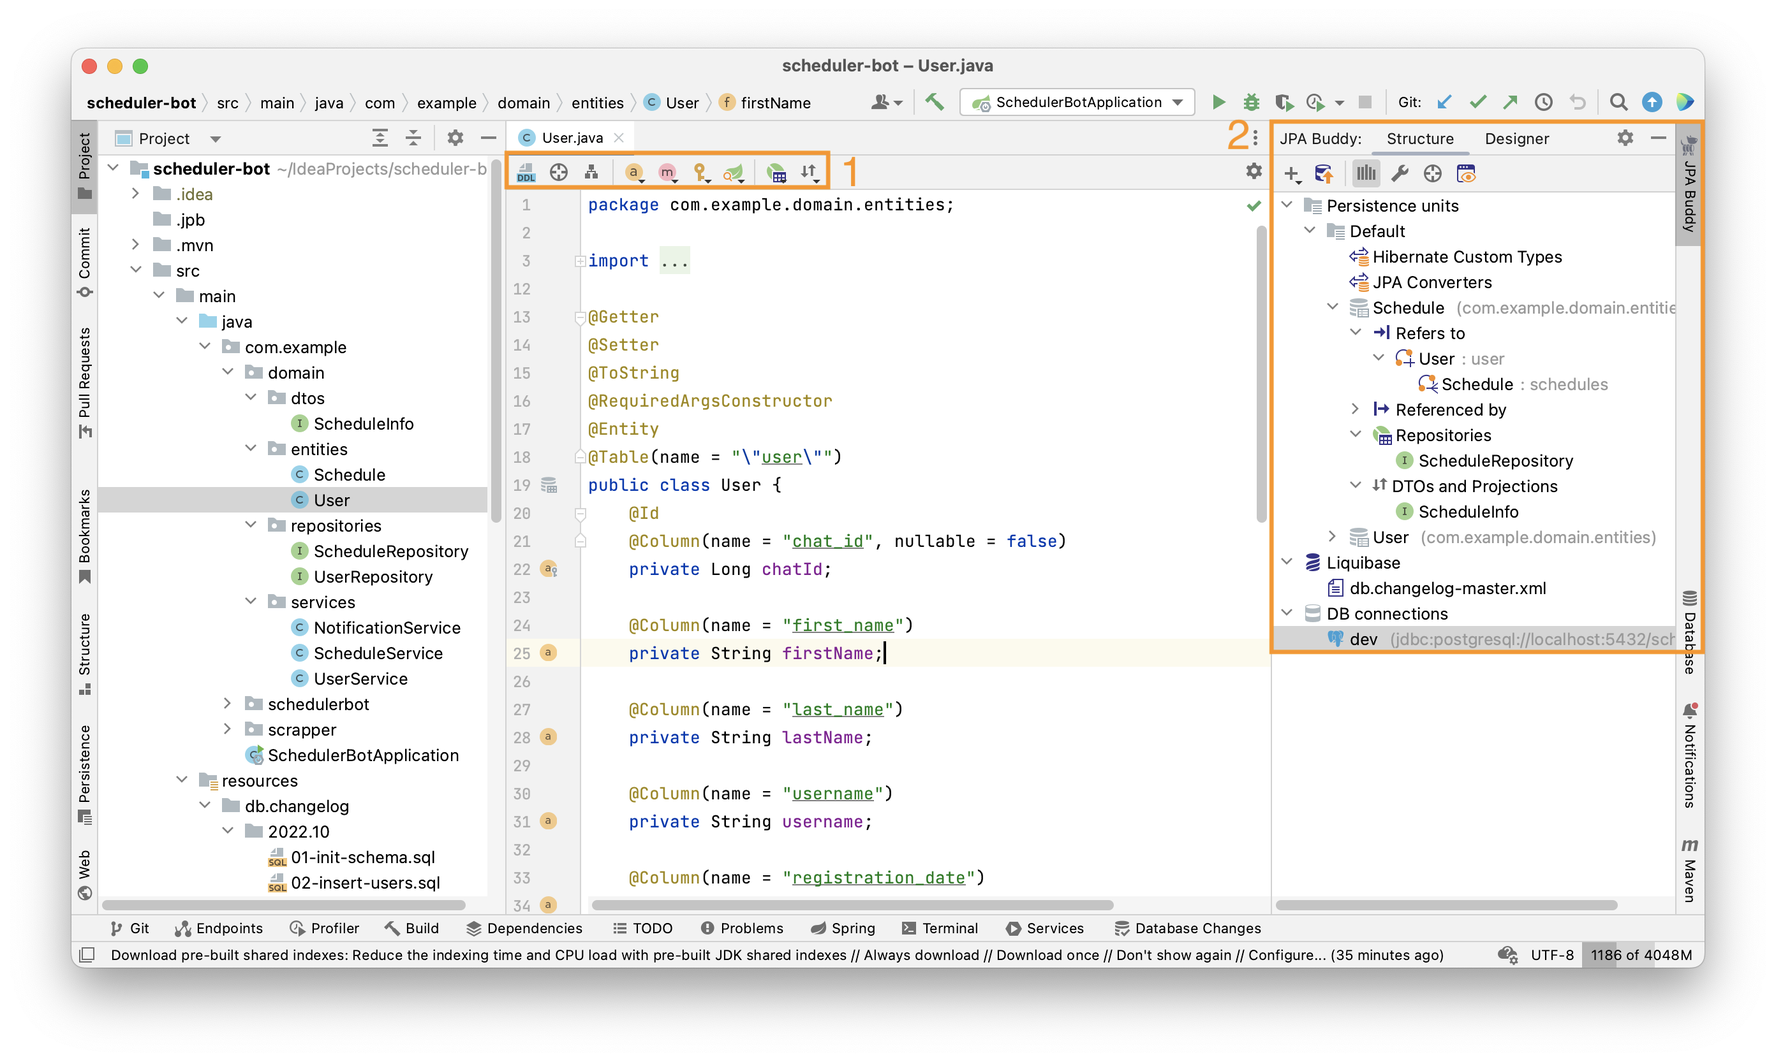
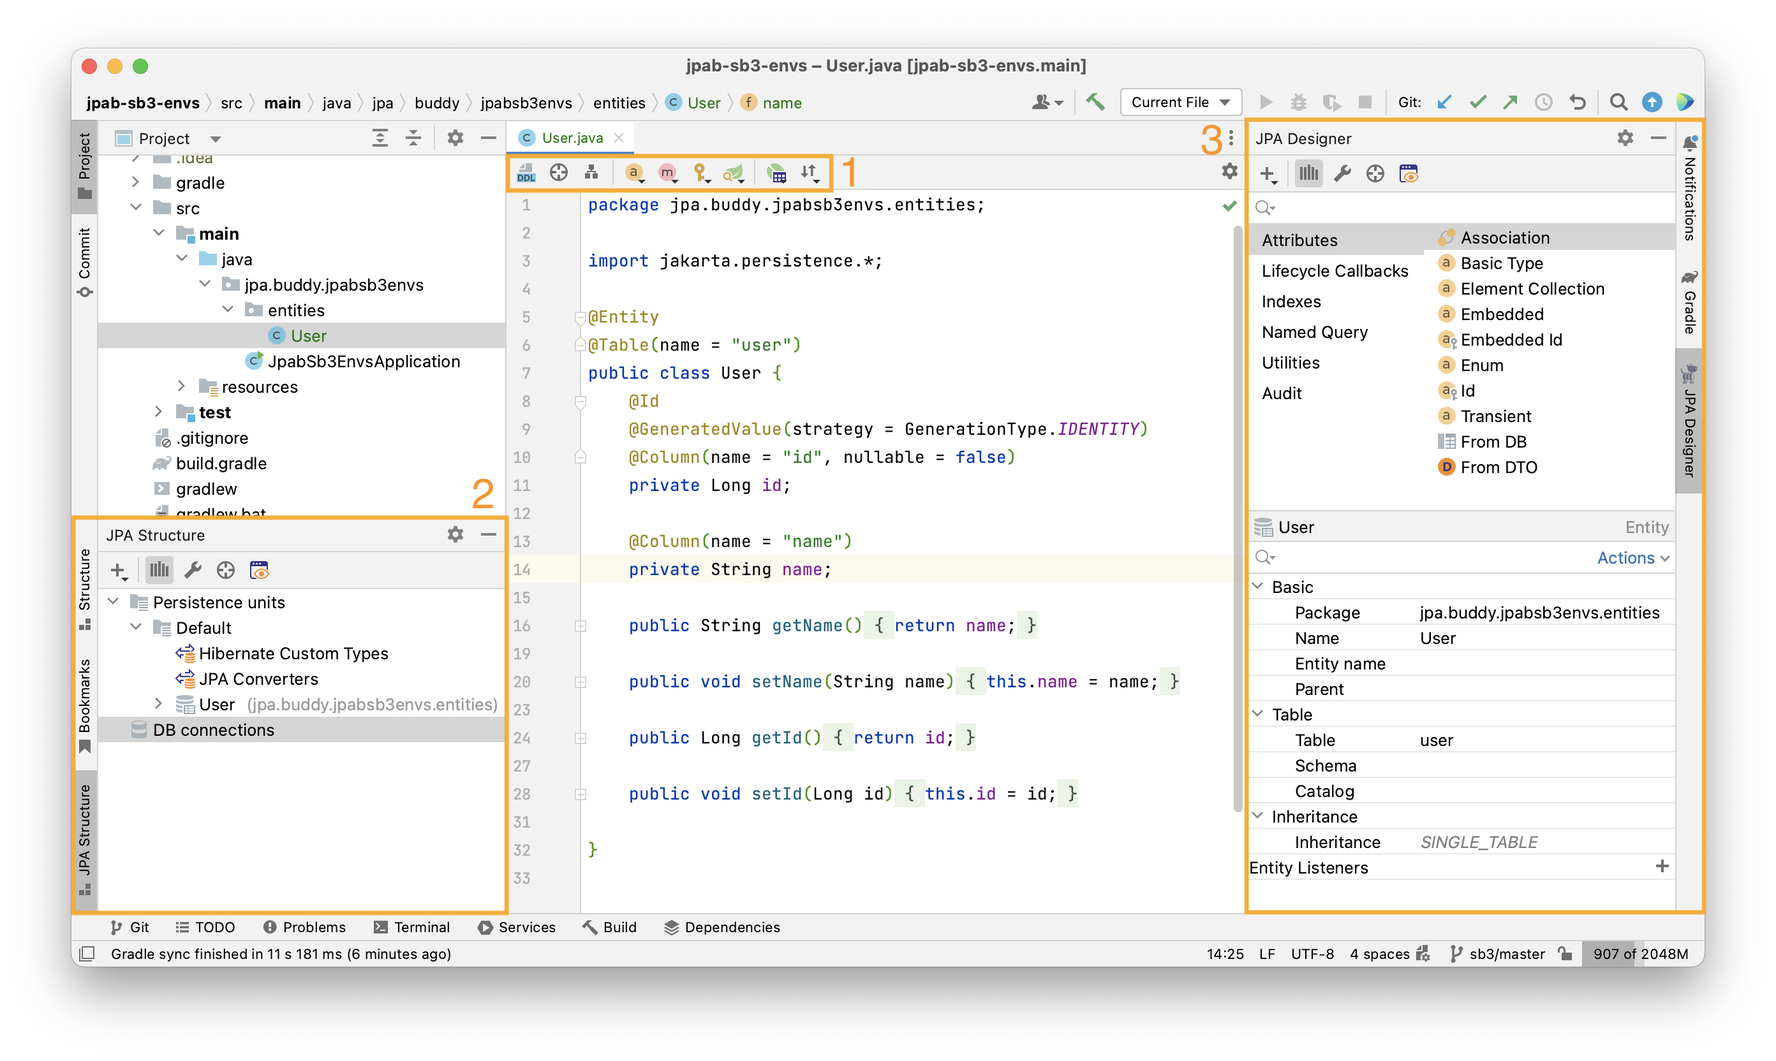
Make tool windows separated again #117

diff --git a/entity-designer/entity-designer.md b/entity-designer/entity-designer.md
@@ -1,18 +1,102 @@
 ## Introduction
 
-Once you [install JPA Buddy](https://www.jpa-buddy.com/documentation/), you will find additional tool window (2) and a toolbar (1).
+Once you [install JPA Buddy](https://www.jpa-buddy.com/documentation/), you will find editor toolbar (1) and additional tool windows (2,3).
 
 ![first-sight](img/first-sight.png)
 
-### JPA Buddy Tool Window
+## JPA Buddy Tool Windows
 
-JPA Buddy tool window consist of two tabs: [JPA Structure](#jpa-structure) (1) and [JPA Designer](#jpa-designer) (2). JPA Designer, in its turn, splits into two more parts called: [JPA Palette](#jpa-palette) (3) and [JPA Inspector](#jpa-inspector) (4).
+JPA Buddy provides 3 additional tool windows:
 
-![jpa-buddy-tool-window](img/jpa-buddy-tool-window.png)
+* [JPA Structure](#jpa-structure) (1) 
+* [JPA Palette](#jpa-palette) (2)
+* [JPA Inspector](#jpa-inspector) (3)
+
+![jpa-buddy-tool-windows](img/jpa-buddy-tool-window.png)
+
+Depending on the settings specified in the [designer settings](#designer-settings), these panels can be displayed differently: together, separately, embedded in the standard IntelliJ IDEA panels, or hidden altogether.
+
+### JPA Structure
+
+JPA Structure tab provides a comprehensive data-centric view on the project. You can use it for many purposes:
+
+1. Traverse through the data model. The entity structure is represented hierarchically. You can easily observe and navigate to entities referencing the current one and ones the current entity refers to. This is an extremely useful feature, especially for those who are just diving into an existing project with a large entity graph or for code reviewers, who often see parts of the data model for the first time and have limited time to understand how it is designed.
+2. Create data-related objects: entities, JPA converters / Hibernate types, Spring Data repositories and Liquibase changelog.
+3. Observe related Spring Data repositories, DTOs and projections for each entity.
+4. Specify plugin-related settings such as DB connection, persistence units and others, which the plugin was not able to detect automatically.
+
+![jpa-structure](img/jpa-structure.png)
+
+If you don't see the JPA Structure check [visual designer settings](#designer-settings).
+
+### JPA Palette
+
+![jpa-palette](img/jpa-palette.png)
+
+The idea of the JPA Palette is to generate attributes, indexes, queries, etc.
+
+JPA Palette provides a corresponding generation window for everything listed below. There is a slight difference between them according to the context, but they all have a similar design:
+
+- <a href="https://www.youtube.com/embed/8A_ftrU_yYE">Attributes</a>
+- <a href="https://www.youtube.com/embed/d77p30UXBzc">Lifecycle Callbacks</a>
+- <a href="https://www.youtube.com/embed/9YVtxVeN9Yk">Indexes</a>
+- <a href="https://www.youtube.com/embed/iV6jTbzjgkE">Named Query</a>
+- <a href="https://youtu.be/az9ghvGczys">Reverse Engineering</a>
+- <a href="https://youtu.be/jTdMIOfyx2Q">Utilities – Equals/HashCode/ToString</a>
+
+If you don't see the JPA Palette check [visual designer settings](#designer-settings).
+
+#### Associations Performance Tips
+
+Hibernate comes with many relationships mapping types, but not all of them are equal in terms of efficiency.
+
+During associations creation, JPA Buddy provides short explanation in “Learn more” button, why the current configuration is not efficient and may cause performance issues:
+
+![learn-more](img/learn-more.jpeg)
+
+Also, there is a drop-down list with possible optimizations that you can apply in one click:
+
+![suggested-optimizations](img/suggested-optimizations.jpeg)
+
+<div class="youtube">
+<iframe width="560" height="315" src="https://www.youtube.com/embed/QLQi02WzItw" title="YouTube video player" allow="accelerometer; autoplay; clipboard-write; encrypted-media; gyroscope; picture-in-picture" allowfullscreen></iframe>
+</div>
+
+### JPA Inspector
+
+![jpa-inspector](img/jpa-inspector.png)
+
+JPA Inspector is designed to edit existing attributes, indexes, queries, etc.
+
+JPA Inspector allows you to configure JPA entities and attributes in it. Click on any element that you need to configure, and change the required properties:
+
+<div class="youtube">
+<iframe width="560" height="315" src="https://www.youtube.com/embed/SwnxWJMVin0" title="YouTube video player" allow="accelerometer; autoplay; clipboard-write; encrypted-media; gyroscope; picture-in-picture" allowfullscreen></iframe>
+</div>
+
+If you don't see the JPA Inspector check [visual designer settings](#designer-settings).
+
+#### Hibernate Validations
+
+For projects with Hibernate Validations, a section appears with validations that you can apply for the selected attribute:
+
+<div class="youtube">
+<iframe width="560" height="315" src="https://www.youtube.com/embed/yIOcQ_bGxBc" title="YouTube video player" allow="accelerometer; autoplay; clipboard-write; encrypted-media; gyroscope; picture-in-picture" allowfullscreen></iframe>
+</div>
+
+### Editor Toolbar
+
+Editor Toolbar contains relevant action depending on the file content. You can find it on top of the editor window.
+
+<div class="youtube">
+<iframe width="560" height="315" src="https://www.youtube.com/embed/psZWTxq73ws" title="YouTube video player" allow="accelerometer; autoplay; clipboard-write; encrypted-media; gyroscope; picture-in-picture" allowfullscreen></iframe>
+</div>
+
+If you don't see the Editor Toolbar check [visual designer settings](#designer-settings).
 
 ## Entity Generation
 
-To create a new JPA entity, right-click on the desired folder and select New -> JPA Entity (1). Also, you can create a new entity from JPA Buddy tool window (2):
+To create a new JPA entity, right-click on the desired folder and select New -> JPA Entity (1). Also, you can create a new entity from JPA Structure (2):
 
 ![jpa-structure-create-new-entity](img/jpa-structure-create-new-entity.png)
 
@@ -22,7 +106,7 @@ After that, the following window will appear:
 
 ### Languages Support
 
-JPA Buddy supports both [Java](https://www.java.com/) and [Kotlin](https://kotlinlang.org/). When JPA Buddy detects the [Kotlin dependency](https://kotlinlang.org/docs/maven.html) in your project, an additional option appears in the “New Entity” window, letting you pick the language:
+JPA Buddy supports both <a href="https://www.java.com/">Java</a> and <a href="https://kotlinlang.org/">Kotlin</a>. When JPA Buddy detects the <a href="https://kotlinlang.org/docs/maven.html">Kotlin dependency</a> in your project, an additional option appears in the “New Entity” window, letting you pick the language:
 
 ![new-entity-language-choose](img/new-entity-language-choose.jpeg)
 
@@ -52,142 +136,51 @@ See the example of the generated ID below:
 
 ```java
 @Id
-@GeneratedValue(strategy=GenerationType.SEQUENCE,generator = "owners_seq")
-@SequenceGenerator(name = "owners_seq",sequenceName = "SEQ_OWNER", initialValue = 5, allocationSize = 10)
+@GeneratedValue(
+    strategy=GenerationType.SEQUENCE,
+    generator = "owners_seq"
+)
+@SequenceGenerator(
+    name = "owners_seq",
+    sequenceName = "SEQ_OWNER",
+    initialValue = 5,
+    allocationSize = 10
+)
 @Column(name = "id", nullable = false)
 private Long id;
 ```
-
-## JPA Structure
-
-JPA Structure tab provides a comprehensive data-centric view on the project. You can use it for many purposes:
-
-1. Traverse through the data model. The entity structure is represented hierarchically. You can easily observe and navigate to entities referencing the current one and ones the current entity refers to. This is an extremely useful feature, especially for those who are just diving into an existing project with a large entity graph or for code reviewers, who often see parts of the data model for the first time and have limited time to understand how it is designed.
-2. Create data-related objects: entities, JPA converters / Hibernate types, Spring Data repositories and Liquibase changelog.
-3. Observe related Spring Data repositories, DTOs and projections for each entity.
-4. Specify plugin-related settings such as DB connection, persistence units and others, which the plugin was not able to detect automatically.
-
-![jpa-structure](img/jpa-structure.png)
-
-## JPA Designer
-
-Once the JPA entity is created, Designer tab appears in the JPA Buddy tool window. The content of this tab is context-depended. Designer tab splits into two parts called: JPA Palette (1) and JPA Inspector (2). The idea of the JPA Palette is to generate attributes, indexes, queries, etc. Meanwhile, JPA Inspector is designed to edit existing attributes, indexes, queries, etc.
-
-![jpa-designer](img/jpa-designer.png)
-
-### JPA Palette
-
-JPA Palette provides a corresponding generation window for everything listed below. There is a difference between them according to the context, but they all have a similar design.
-
-- Attributes
-
-<div class="youtube" align="center">
-<iframe width="560" height="315" src="https://www.youtube.com/embed/8A_ftrU_yYE" title="YouTube video player" frameborder="0" allow="accelerometer; autoplay; clipboard-write; encrypted-media; gyroscope; picture-in-picture" allowfullscreen></iframe>
-</div>
-
-- Lifecycle Callbacks
-
-<div class="youtube" align="center">
-<iframe width="560" height="315" src="https://www.youtube.com/embed/d77p30UXBzc" title="YouTube video player" frameborder="0" allow="accelerometer; autoplay; clipboard-write; encrypted-media; gyroscope; picture-in-picture" allowfullscreen></iframe>
-</div>
-
-- Indexes
-
-<div class="youtube" align="center">
-<iframe width="560" height="315" src="https://www.youtube.com/embed/9YVtxVeN9Yk" title="YouTube video player" frameborder="0" allow="accelerometer; autoplay; clipboard-write; encrypted-media; gyroscope; picture-in-picture" allowfullscreen></iframe>
-</div>
-
-- Named Query
-
-<div class="youtube" align="center">
-<iframe width="560" height="315" src="https://www.youtube.com/embed/iV6jTbzjgkE" title="YouTube video player" frameborder="0" allow="accelerometer; autoplay; clipboard-write; encrypted-media; gyroscope; picture-in-picture" allowfullscreen></iframe>
-</div>
-
-- Reverse Engineering
-
-<div class="youtube" align="center">
-<iframe width="560" height="315" src="https://www.youtube.com/embed/az9ghvGczys" title="YouTube video player" frameborder="0" allow="accelerometer; autoplay; clipboard-write; encrypted-media; gyroscope; picture-in-picture" allowfullscreen></iframe>
-</div>
-
-As you can see in the video, via JPA Palette, you can only generate attributes for the entity. But JPA Buddy provides more features for this. You can learn more in [Reverse Engineering](https://www.jpa-buddy.com/documentation/reverse-engineering/) documentation.
-
-- Utilities (Equals/HashCode/ToString) - JPA Buddy follows best practices for Equals/HashCode/ToString generated implementations. Learn more about this topic in articles by [Thorben Janssen](https://thorben-janssen.com/ultimate-guide-to-implementing-equals-and-hashcode-with-hibernate/).
-
-<div class="youtube" align="center"> 
-<iframe width="560" height="315" src="https://www.youtube.com/embed/jTdMIOfyx2Q" title="YouTube video player" frameborder="0" allow="accelerometer; autoplay; clipboard-write; encrypted-media; gyroscope; picture-in-picture" allowfullscreen></iframe>
-</div>
-
-#### Associations Performance Tips
-
-Hibernate comes with many relationships mapping types, but not all of them are equal in terms of efficiency.
-
-During associations creation, JPA Buddy provides short explanation in “Learn more” button, why the current configuration is not efficient and may cause performance issues:
-
-![learn-more](img/learn-more.jpeg)
-
-Also, there is a drop-down list with possible optimizations that you can apply in one click:
-
-![suggested-optimizations](img/suggested-optimizations.jpeg)
-
-<div class="youtube" align="center">
-<iframe width="560" height="315" src="https://www.youtube.com/embed/QLQi02WzItw" title="YouTube video player" frameborder="0" allow="accelerometer; autoplay; clipboard-write; encrypted-media; gyroscope; picture-in-picture" allowfullscreen></iframe>
-</div>
-
-### JPA Inspector
-
-JPA Inspector allows you to configure JPA entities and attributes in it. Click on any element that you need to configure, and change the required properties:
-
-<div class="youtube" align="center">
-<iframe width="560" height="315" src="https://www.youtube.com/embed/SwnxWJMVin0" title="YouTube video player" frameborder="0" allow="accelerometer; autoplay; clipboard-write; encrypted-media; gyroscope; picture-in-picture" allowfullscreen></iframe>
-</div>
-
-### Editor Toolbar
-
-Editor Toolbar contains relevant action depending on the file content. You can find it on top of the editor window. If you don't have the toolbar check [visual designer settings](https://www.jpa-buddy.com/documentation/entity-designer/#designer-settings).
-
-<div class="youtube" align="center">
-<iframe width="560" height="315" src="https://www.youtube.com/embed/psZWTxq73ws" title="YouTube video player" frameborder="0" allow="accelerometer; autoplay; clipboard-write; encrypted-media; gyroscope; picture-in-picture" allowfullscreen></iframe>
-</div>
-
-### Hibernate Validations
-
-For projects with Hibernate Validations, a section appears with validations that you can apply for the selected attribute:
-
-<div class="youtube" align="center">
-<iframe width="560" height="315" src="https://www.youtube.com/embed/yIOcQ_bGxBc" title="YouTube video player" frameborder="0" allow="accelerometer; autoplay; clipboard-write; encrypted-media; gyroscope; picture-in-picture" allowfullscreen></iframe>
-</div>
 
 ## Extract to MappedSuperclass
 
 The application is growing and the JPA model is evolving as well. Eventually, it became obvious that common attributes should be extracted to `@MappedSuperclass`. JPA Buddy allows you to extract attributes along with JPA annotations to MappedSuperclass and build a well-designed entities' hierarchy.
 
-<div class="youtube" align="center">
-<iframe width="560" height="315" src="https://www.youtube.com/embed/BAmwdEbj8LQ" title="YouTube video player" frameborder="0" allow="accelerometer; autoplay; clipboard-write; encrypted-media; gyroscope; picture-in-picture" allowfullscreen></iframe>
+<div class="youtube">
+<iframe width="560" height="315" src="https://www.youtube.com/embed/BAmwdEbj8LQ" title="YouTube video player" allow="accelerometer; autoplay; clipboard-write; encrypted-media; gyroscope; picture-in-picture" allowfullscreen></iframe>
 </div>
 
 ## Lombok
 
 ### Inspections
 
-[Lombok](https://projectlombok.org/) is a great tool that makes your Java code concise and clean. But there are a few things to consider when using Lombok with JPA, and to follow them easily, JPA Buddy provides corresponding inspections:
+<a href="https://projectlombok.org/">Lombok</a> is a great tool that makes your Java code concise and clean. But there are a few things to consider when using Lombok with JPA, and to follow them easily, JPA Buddy provides corresponding inspections:
 
 - Avoid using `@`EqualsAndHashCode and `@`Data with JPA entities. Entities are immutable by their nature, so implementing equals() and hashCode() for them is not a trivial task. The implementations provided by Lombok are not well suited for JPA entities and may cause issues with collections and accidental loading of lazy attributes.
 
-<div class="youtube" align="center">
-<iframe width="560" height="315" src="https://www.youtube.com/embed/E6qZXvz-Fs0" title="YouTube video player" frameborder="0" allow="accelerometer; autoplay; clipboard-write; encrypted-media; gyroscope; picture-in-picture" allowfullscreen></iframe>
+<div class="youtube">
+<iframe width="560" height="315" src="https://www.youtube.com/embed/E6qZXvz-Fs0" title="YouTube video player" allow="accelerometer; autoplay; clipboard-write; encrypted-media; gyroscope; picture-in-picture" allowfullscreen></iframe>
 </div>
 
 - Always exclude lazy attributes when using `@`ToString - by default, `@`ToString includes all the object fields. Such an approach can have an unwanted side effect for JPA entities: accidentally loading lazy attributes. This can easily harm the application performance or lead to a LazyInitializationException if it happens outside a transaction.
 
-<div class="youtube" align="center">
-<iframe width="560" height="315" src="https://www.youtube.com/embed/fUtRJBKskig" title="YouTube video player" frameborder="0" allow="accelerometer; autoplay; clipboard-write; encrypted-media; gyroscope; picture-in-picture" allowfullscreen></iframe>
+<div class="youtube">
+<iframe width="560" height="315" src="https://www.youtube.com/embed/fUtRJBKskig" title="YouTube video player" allow="accelerometer; autoplay; clipboard-write; encrypted-media; gyroscope; picture-in-picture" allowfullscreen></iframe>
 </div>
 
 - Don’t forget to add `@`NoArgsConstructor to entities with `@`Builder or `@`AllArgsConstructor – they introduce their own constructors, so the compiler doesn't generate a default one. A no-argument constructor is required for all JPA entities according to the specification.
 
 ![no-args-constructor](img/no-args-constructor.jpeg)
 
-Check out our [article](https://www.jpa-buddy.com/blog/lombok-and-jpa-what-may-go-wrong/) to learn more about why it is so important to follow the rules above.
+Check out our <a href="https://www.jpa-buddy.com/blog/lombok-and-jpa-what-may-go-wrong/">article</a> to learn more about why it is so important to follow the rules above.
 
 ### Annotations
 
@@ -205,8 +198,8 @@ JPA Buddy provides the possibility to generate new entities and attributes with 
 
 JPA Buddy helps you to generate blank for JPA Converter or a Hibernate Custom Type via JPA Inspector:
 
-<div class="youtube" align="center">
-<iframe width="560" height="315" src="https://www.youtube.com/embed/taBDP5x9nLc" title="YouTube video player" frameborder="0" allow="accelerometer; autoplay; clipboard-write; encrypted-media; gyroscope; picture-in-picture" allowfullscreen></iframe>
+<div class="youtube">
+<iframe width="560" height="315" src="https://www.youtube.com/embed/taBDP5x9nLc" title="YouTube video player" allow="accelerometer; autoplay; clipboard-write; encrypted-media; gyroscope; picture-in-picture" allowfullscreen></iframe>
 </div>
 
 Also, you can create via JPA Structure. Just click on the “Plus” button and choose JPA Converter or Hibernate Custom Type:
@@ -250,8 +243,8 @@ public class BooleanConverter extends AbstractSingleColumnStandardBasicType<Bool
 
 Hibernate Event System is useful when you work with data and need to log or broadcast changes, perform additional checks before irreversible operations, hook business logic when data state gets changed, etc. For all these occasions, Hibernate provides Event Listeners and JPA Buddy helps to scaffold them in a few clicks:
 
-<div class="youtube" align="center">
-<iframe width="560" height="315" src="https://www.youtube.com/embed/TVa-T8aLgbA" title="YouTube video player" frameborder="0" allow="accelerometer; autoplay; clipboard-write; encrypted-media; gyroscope; picture-in-picture" allowfullscreen></iframe>
+<div class="youtube">
+<iframe width="560" height="315" src="https://www.youtube.com/embed/TVa-T8aLgbA" title="YouTube video player" allow="accelerometer; autoplay; clipboard-write; encrypted-media; gyroscope; picture-in-picture" allowfullscreen></iframe>
 </div>
 
 ## Inspections
@@ -266,8 +259,8 @@ JPA Buddy provides a lot of inspections that help during coding. By default, all
 
 Java code style may change from project to project. Also, working with external databases you have to follow naming conventions for tables, columns, etc., when mapping them to JPA entities. JPA Buddy offers you flexible configurations of naming templates, which are automatically applied to new entities and attributes.
 
-<div class="youtube" align="center">
-<iframe width="560" height="315" src="https://www.youtube.com/embed/npHuDl8pdmM" title="YouTube video player" frameborder="0" allow="accelerometer; autoplay; clipboard-write; encrypted-media; gyroscope; picture-in-picture" allowfullscreen></iframe>
+<div class="youtube">
+<iframe width="560" height="315" src="https://www.youtube.com/embed/npHuDl8pdmM" title="YouTube video player" allow="accelerometer; autoplay; clipboard-write; encrypted-media; gyroscope; picture-in-picture" allowfullscreen></iframe>
 </div>
 
 <div class="note">The name that is specified is logical, and the appropriate physical naming strategy will be applied to it. Even if you have specified the name in a certain way, it may be saved to the database with a different one. Learn more about naming strategies in <a href="https://www.jpa-buddy.com/blog/hibernate-naming-strategies-jpa-specification-vs-springboot-opinionation/">our article</a>. JPA Buddy allows you to choose naming strategies for scripts generation in the <a href="https://www.jpa-buddy.com/documentation/database-versioning/#naming-strategy-and-max-identifier-settings">settings</a>.</div>
@@ -293,10 +286,10 @@ public class PetType {
 
 ### Constants Generation
 
-One of the most important characteristics of a project is maintainability. JPA projects contain a lot of Strings containing things like JPQL or native query statements and references to attributes, queries, and bind parameter names. According to the best practices, one of the ways to rest your persistence layer well-structured is constants. You can learn about it in [Thorben Janssen](https://thorben-janssen.com/hibernate-best-practices-for-readable-and-maintainable-code/) article.
+One of the most important characteristics of a project is maintainability. JPA projects contain a lot of Strings containing things like JPQL or native query statements and references to attributes, queries, and bind parameter names. According to the best practices, one of the ways to rest your persistence layer well-structured is constants. You can learn about it in <a href="https://thorben-janssen.com/hibernate-best-practices-for-readable-and-maintainable-code/">Thorben Janssen</a> article.
 
-<div class="youtube" align="center">
-<iframe width="560" height="315" src="https://www.youtube.com/embed/xc-ayDDdjss" title="YouTube video player" frameborder="0" allow="accelerometer; autoplay; clipboard-write; encrypted-media; gyroscope; picture-in-picture" allowfullscreen></iframe>
+<div class="youtube">
+<iframe width="560" height="315" src="https://www.youtube.com/embed/xc-ayDDdjss" title="YouTube video player" allow="accelerometer; autoplay; clipboard-write; encrypted-media; gyroscope; picture-in-picture" allowfullscreen></iframe>
 </div>
 
 JPA Buddy provides constants generation for the entity, table, and column names. You can also choose where you want to place constants.
